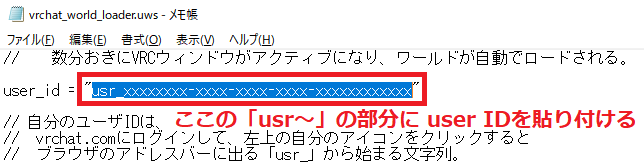
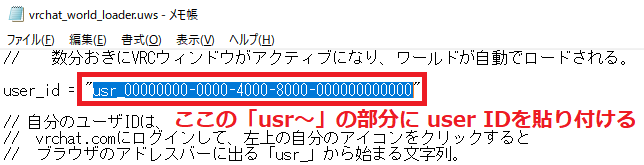
Fix initial value

Changed region(s): [[0.1242, 0.4848, 0.6522, 0.6061], [0.1242, 0.4848, 0.1553, 0.5152]]

diff --git a/README.md b/README.md
@@ -13,7 +13,7 @@ https://www.vector.co.jp/soft/winnt/util/se115105.html
 ![01_login_click_icon.png](images/01_login_click_icon.png)  
 4. ブラウザのアドレスバーに出るUser IDを確認する。  
 ![02_check_user_id.png](images/02_check_user_id.png)
-5. 「vrchat_world_loader.uws」をメモ帳で開き、「user_id = 」から始まる行の「usr_xxx...」の部分に、自分のユーザIDを設定して保存する。  
+5. 「vrchat_world_loader.uws」をメモ帳で開き、「user_id = 」から始まる行の「usr_000...」の部分に、自分のユーザIDを設定して保存する。  
 ![03_paste_user_id.png](images/03_paste_user_id.png)
 6. 開きたいワールドのIDが記入されたスクリプト(vket4_world_loader.uwsなど)を、UWSC.exeにドラッグ＆ドロップして放置する。数分おきにVRCウィンドウがアクティブになり、ワールドが自動でロードされる。
 
